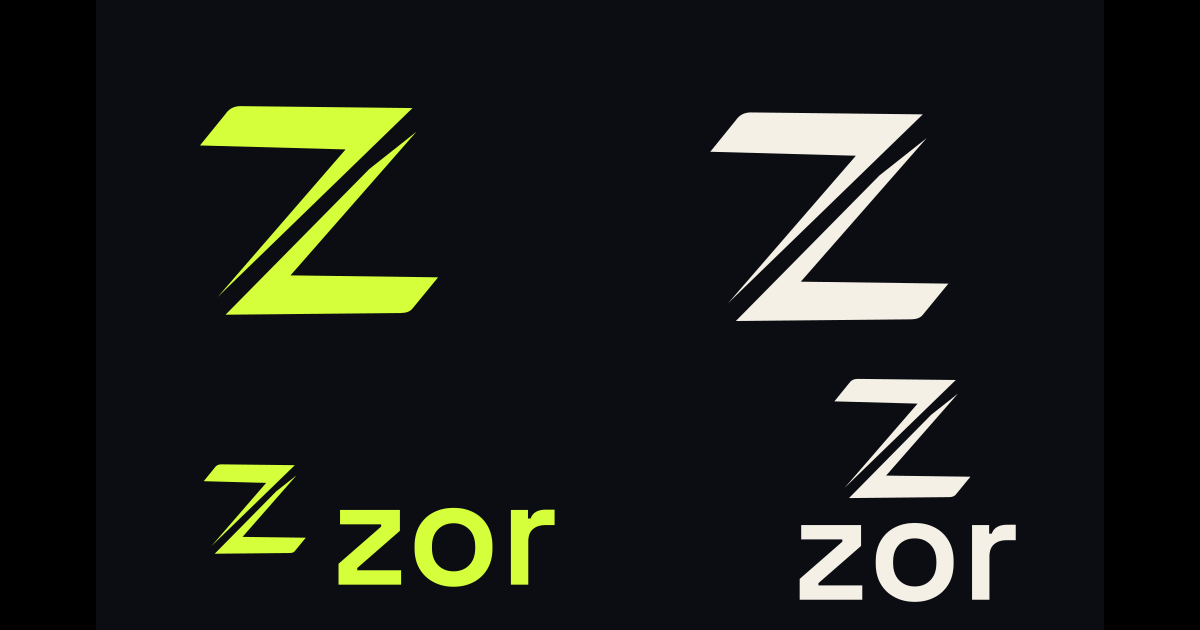
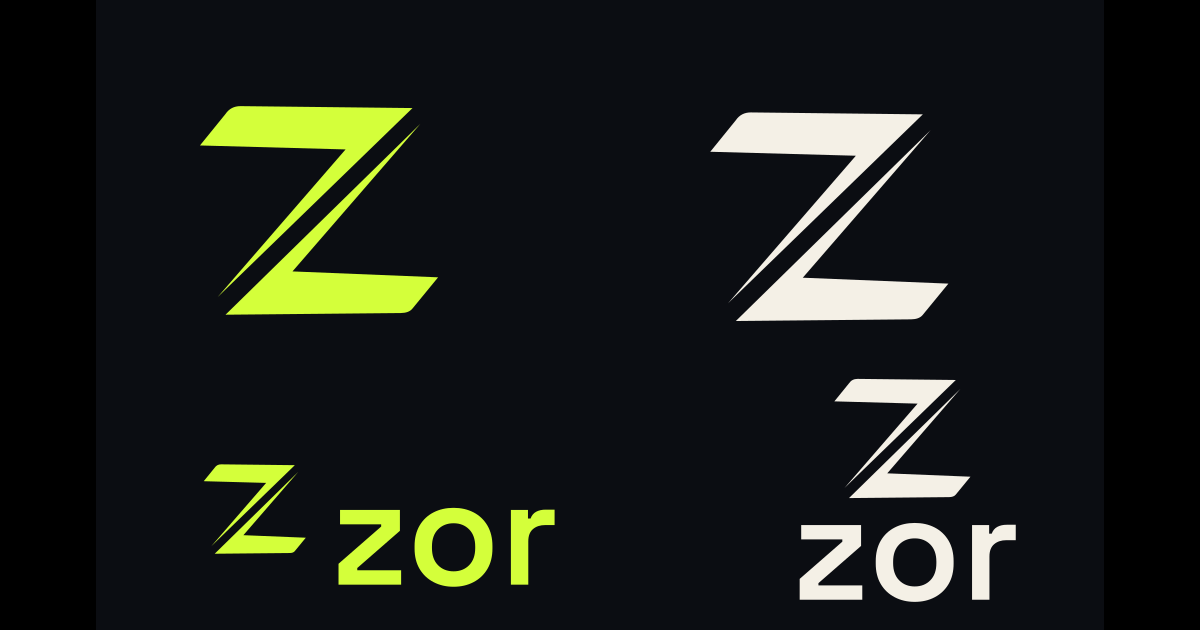
fix(branding): sharpen Zor diagonal tip

diff --git a/docs/superpowers/specs/2026-08-08-zor-complete-rebrand-design.md b/docs/superpowers/specs/2026-08-08-zor-complete-rebrand-design.md
@@ -20,7 +20,7 @@ The repository remains at its existing Forgejo and GitHub path, `hiten/IronPulse
 
 ### Brand character and palette
 
-Zor is sharp, fast, premium, and training-focused. Its mark follows the approved JPEG reference: a compact 1.14:1 geometric `Z` made from two interlocking filled components separated by a narrow parallel negative-space slash. The canonical coordinates are traced from the clean standalone mark in that reference, simplified into straight vector segments, and finished with shallow curves only at the top-left and bottom-right outer terminals; they must not be replaced by an invented three-rail construction. It must remain recognizable at launcher-icon and favicon sizes without depending on texture, shadows, gradients, or a font.
+Zor is sharp, fast, premium, and training-focused. Its mark follows the approved JPEG reference: a compact 1.14:1 geometric `Z` made from two interlocking filled components separated by a narrow parallel negative-space slash. The two diagonal tips are sharp 180-degree counterparts without intermediate vertices or kinks. The canonical coordinates are traced from the clean standalone mark in that reference, simplified into straight vector segments, and finished with shallow curves only at the top-left and bottom-right outer terminals; they must not be replaced by an invented three-rail construction. It must remain recognizable at launcher-icon and favicon sizes without depending on texture, shadows, gradients, or a font.
 
 Canonical product tokens are:
 
